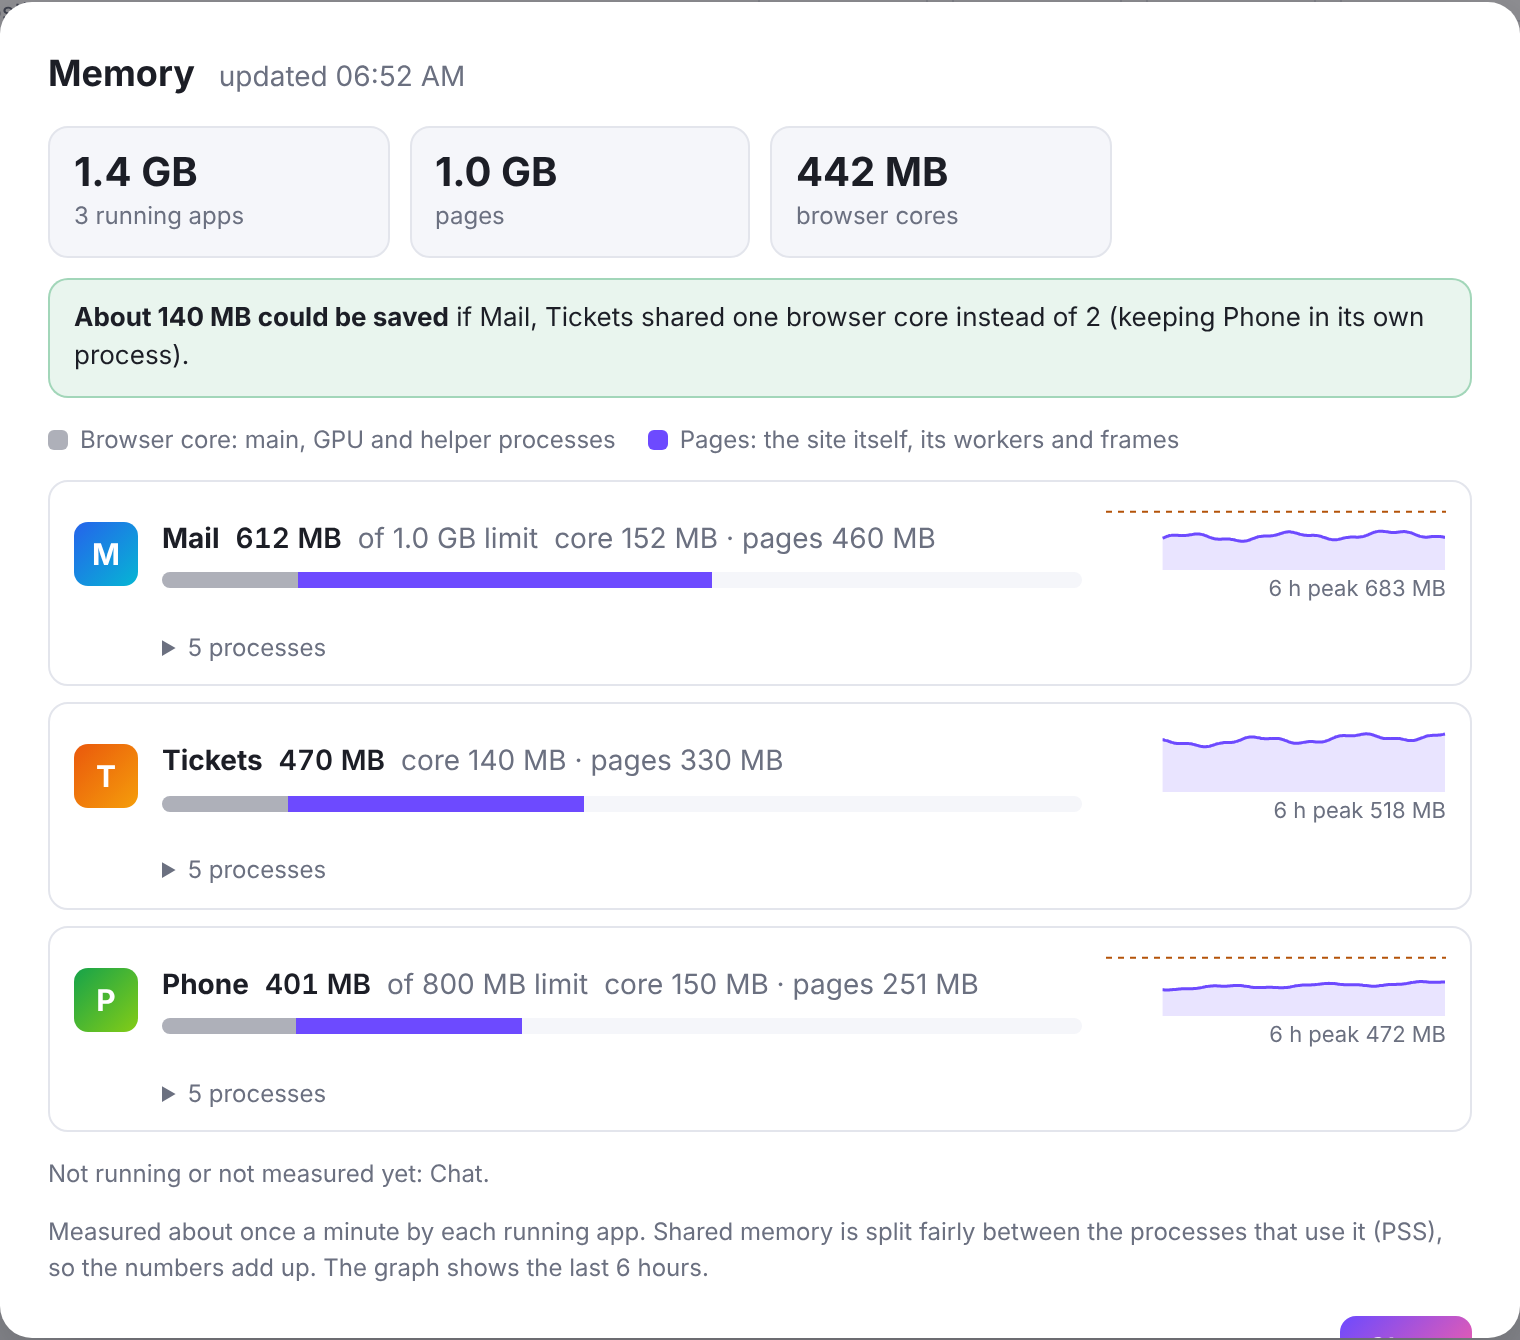
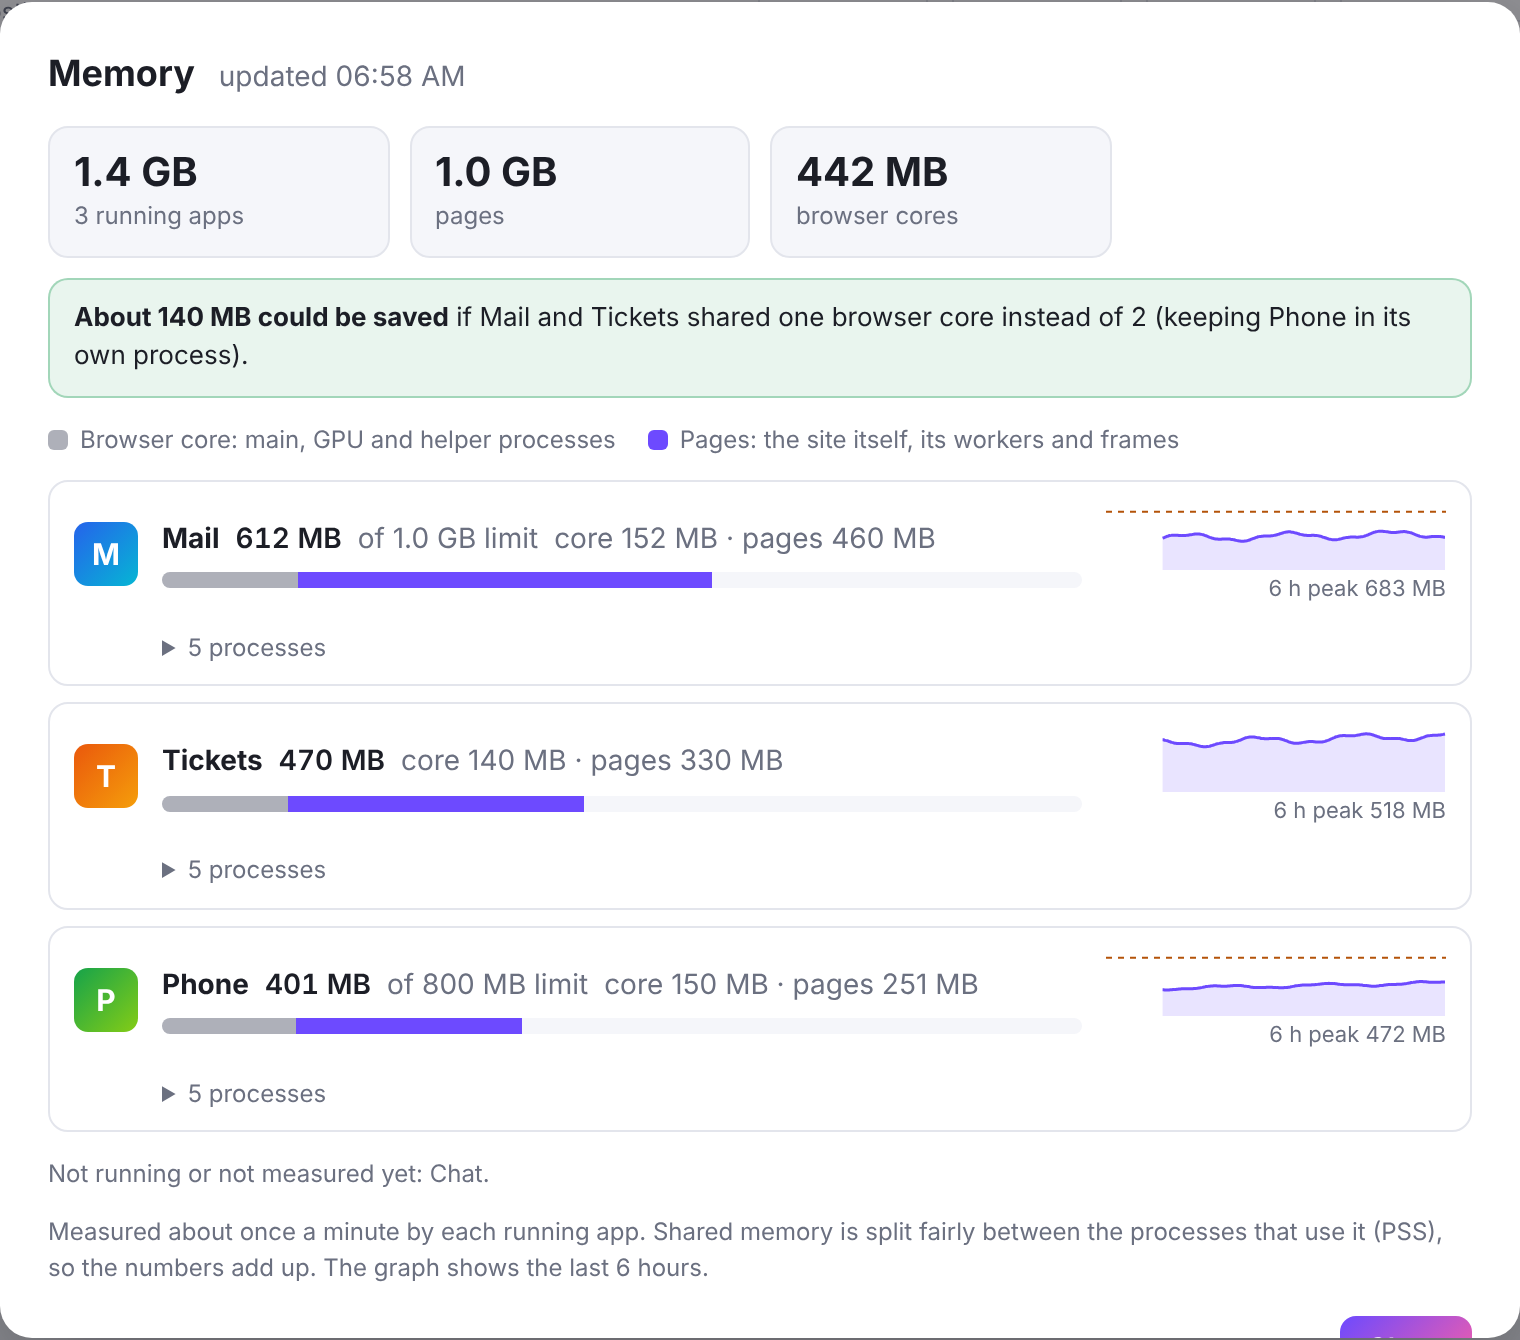
Release 4.3: Apache-2.0 license with NOTICE attribution
- LICENSE is now the Apache License 2.0 (was MIT); NOTICE credits the
  original project and must travel with redistributions and derivatives.
- LICENSE and NOTICE ship in every package and the Flatpak's
  share/licenses; metainfo and package.json say Apache-2.0.
- README: license section and a 'Name and logo' note for forks; logo
  served from a new file name to bypass GitHub's image cache.
- Manager footer credits the author with a link to the project.

Claude-Session: https://claude.ai/code/session_01Q57ZK4Deo58zaJDCnmk6pU

Changed region(s): [[0.3401, 0.2142, 0.9276, 0.2448], [0.0618, 0.2448, 0.1546, 0.2754]]

diff --git a/renderer/manager.js b/renderer/manager.js
@@ -673,6 +673,7 @@ async function showGuide() {
 }
 
 $('#btn-guide').addEventListener('click', () => guard(showGuide));
+$('#btn-credit').addEventListener('click', () => api.openExternal('https://github.com/samschultzponsys/webroost'));
 $('#btn-update-howto').addEventListener('click', () => guard(showGuide));
 $('#btn-guide-releases').addEventListener('click', () => api.openExternal(lastUpdate?.releaseUrl || 'https://github.com/samschultzponsys/webroost/releases/latest'));
 $('#btn-check-update').addEventListener('click', () => guard(() => checkUpdate(true)));

diff --git a/renderer/manager.html b/renderer/manager.html
@@ -54,6 +54,8 @@
   <footer>
     <span id="version"></span>
     <span class="sep">·</span>
+    <button id="btn-credit" class="link" title="WebRoost on GitHub">by Sam Schultz</button>
+    <span class="sep">·</span>
     <span id="config-path"></span>
     <span class="sep">·</span>
     <span id="install-kind"></span>

diff --git a/README.md b/README.md
@@ -1,4 +1,4 @@
-<p align="center"><img src="assets/icons/256x256.png" width="128" alt="WebRoost icon: a birdhouse with a bird peeking out"></p>
+<p align="center"><img src="docs/webroost-icon.png" width="128" alt="WebRoost icon: a birdhouse with a bird peeking out"></p>
 
 <h1 align="center">WebRoost</h1>
 
@@ -12,7 +12,7 @@ desktop app: own window, tray icon, login, notifications, unread badge, autostar
   <a href="#install">Install</a> ·
   <a href="#moving-from-pwa-pop">Moving from PWA Pop</a> ·
   <a href="TESTING.md">Test checklist</a>
-  <br>Current version: <b>4.2</b> · Linux (KDE Plasma, GNOME, XFCE, Cinnamon…) · X11 and Wayland
+  <br>Current version: <b>4.3</b> · Linux (KDE Plasma, GNOME, XFCE, Cinnamon…) · X11 and Wayland
 </p>
 
 <p align="center"><img src="docs/screenshots/manager.png" width="820" alt="The WebRoost manager listing four apps with their status, memory use and buttons"></p>
@@ -391,4 +391,16 @@ Unit tests: `npm test`. Manual release checks: [TESTING.md](TESTING.md).
 
 ## License
 
-[MIT](LICENSE)
+WebRoost is free and open source under the [Apache License 2.0](LICENSE):
+use it, change it, share it or build on it, commercially too. If you
+distribute WebRoost or something based on it, include the [`NOTICE`](NOTICE)
+file, which credits the original project, and mark the files you changed.
+Releases up to 4.2 were published under the MIT License.
+
+### Name and logo
+
+"WebRoost" and the birdhouse logo identify this project. Forks and modified
+versions are welcome, but please give them a different name and icon so
+nobody mistakes them for the original, and keep the credit from `NOTICE`.
+
+Created by **Sam Schultz**.

diff --git a/CHANGELOG.md b/CHANGELOG.md
@@ -9,6 +9,23 @@ is in every file name (e.g. `pwa-pop-1.0-x86_64.rpm`).
 
 ## [Unreleased]
 
+## [4.3] - 2026-11-11
+
+### Changed
+- **License: Apache 2.0** (was MIT). It's still free to use, change and
+  share, commercially too. Anyone who redistributes WebRoost or a work based
+  on it must now include the `NOTICE` file crediting the original project, and
+  mark the files they changed. Releases up to 4.2 stay under MIT.
+- `LICENSE` and `NOTICE` ship inside every package (and the Flatpak's
+  `share/licenses`).
+- The README has a "Name and logo" note asking forks to use their own name
+  and icon. The manager's footer credits the author, with a link to the
+  project.
+
+### Fixed
+- The README's logo comes from a new file name, so GitHub's image cache can't
+  keep showing the old icon.
+
 ## [4.2] - 2026-11-11
 
 ### Added
